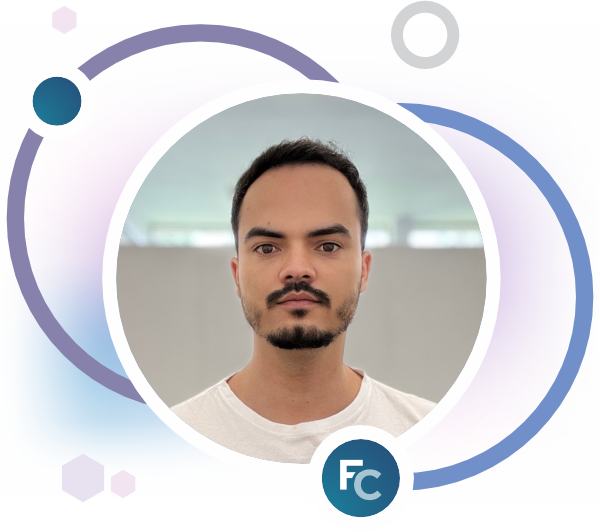
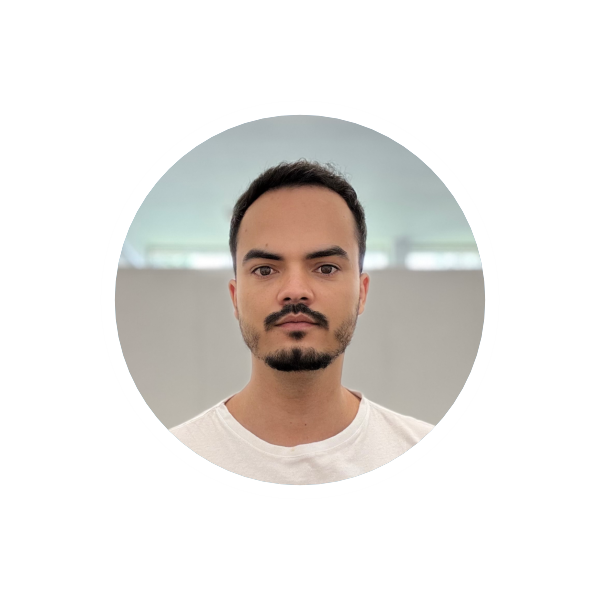
Up

diff --git a/index.html b/index.html
@@ -9,7 +9,7 @@
 
 <!-- conteudo da página abaixo -->
 <div class="conlun2" style="margin-bottom: 0;">
-    <div class="col" id="col4">
+    <div class="col" id="col4" style="background-image: url(./img/svg/fundo.svg); background-size: contain;background-repeat: no-repeat;">
         <!-- conteudo coluna 1 -->
         <img class="perfil" src="./img/img1.png" />
     </div>
